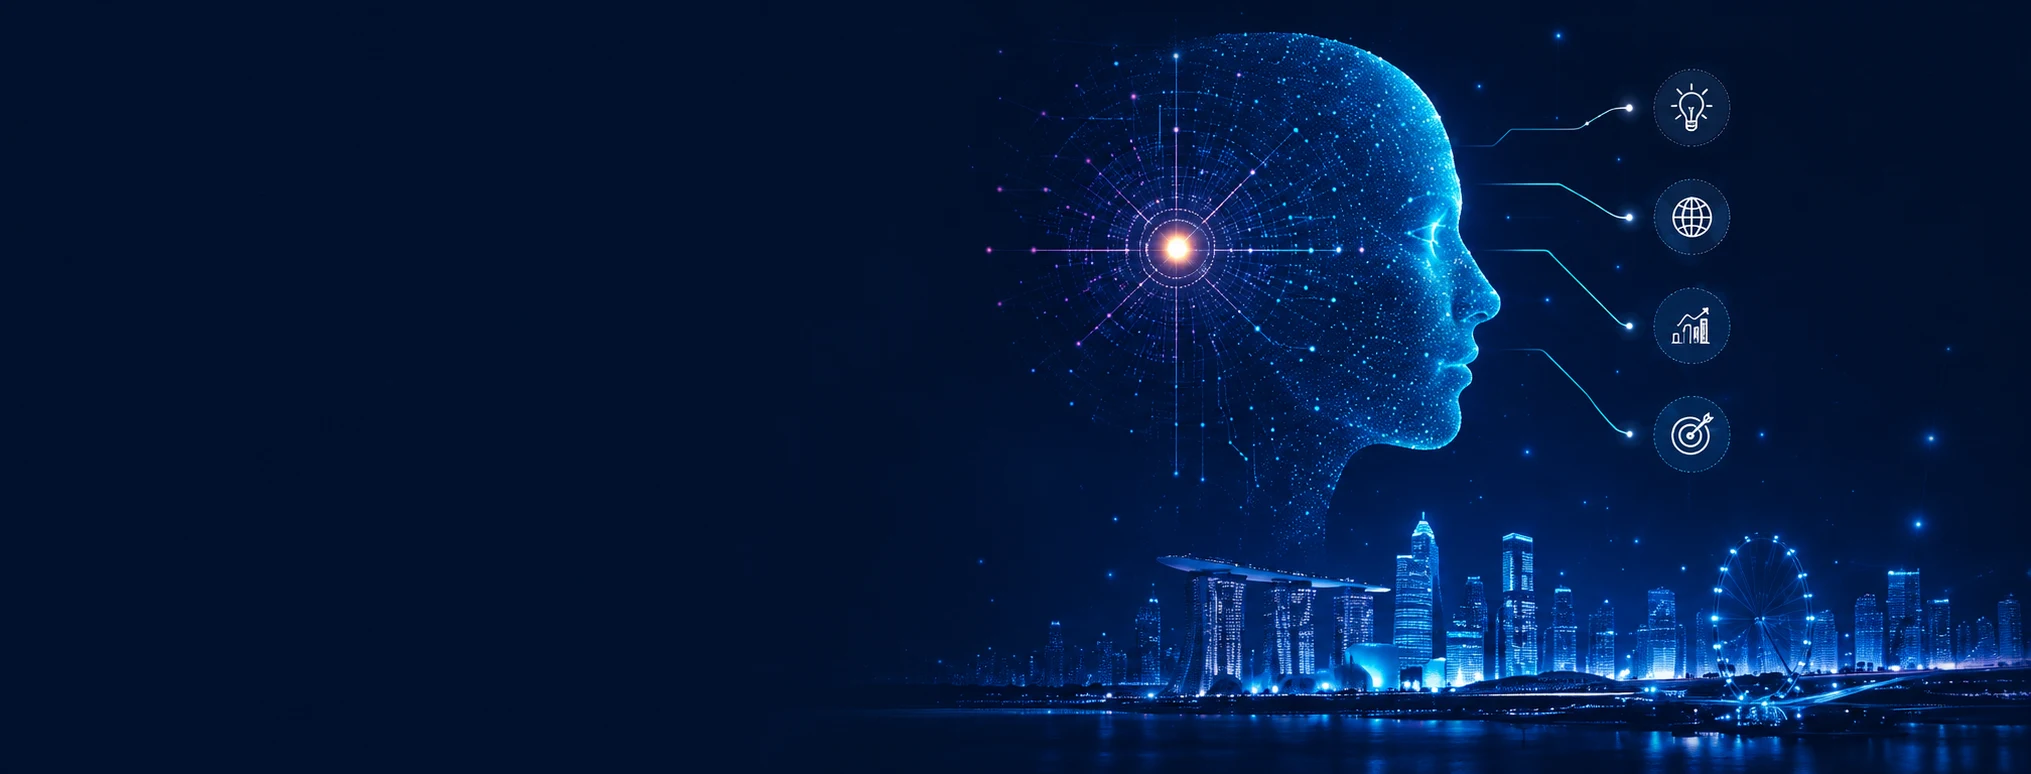
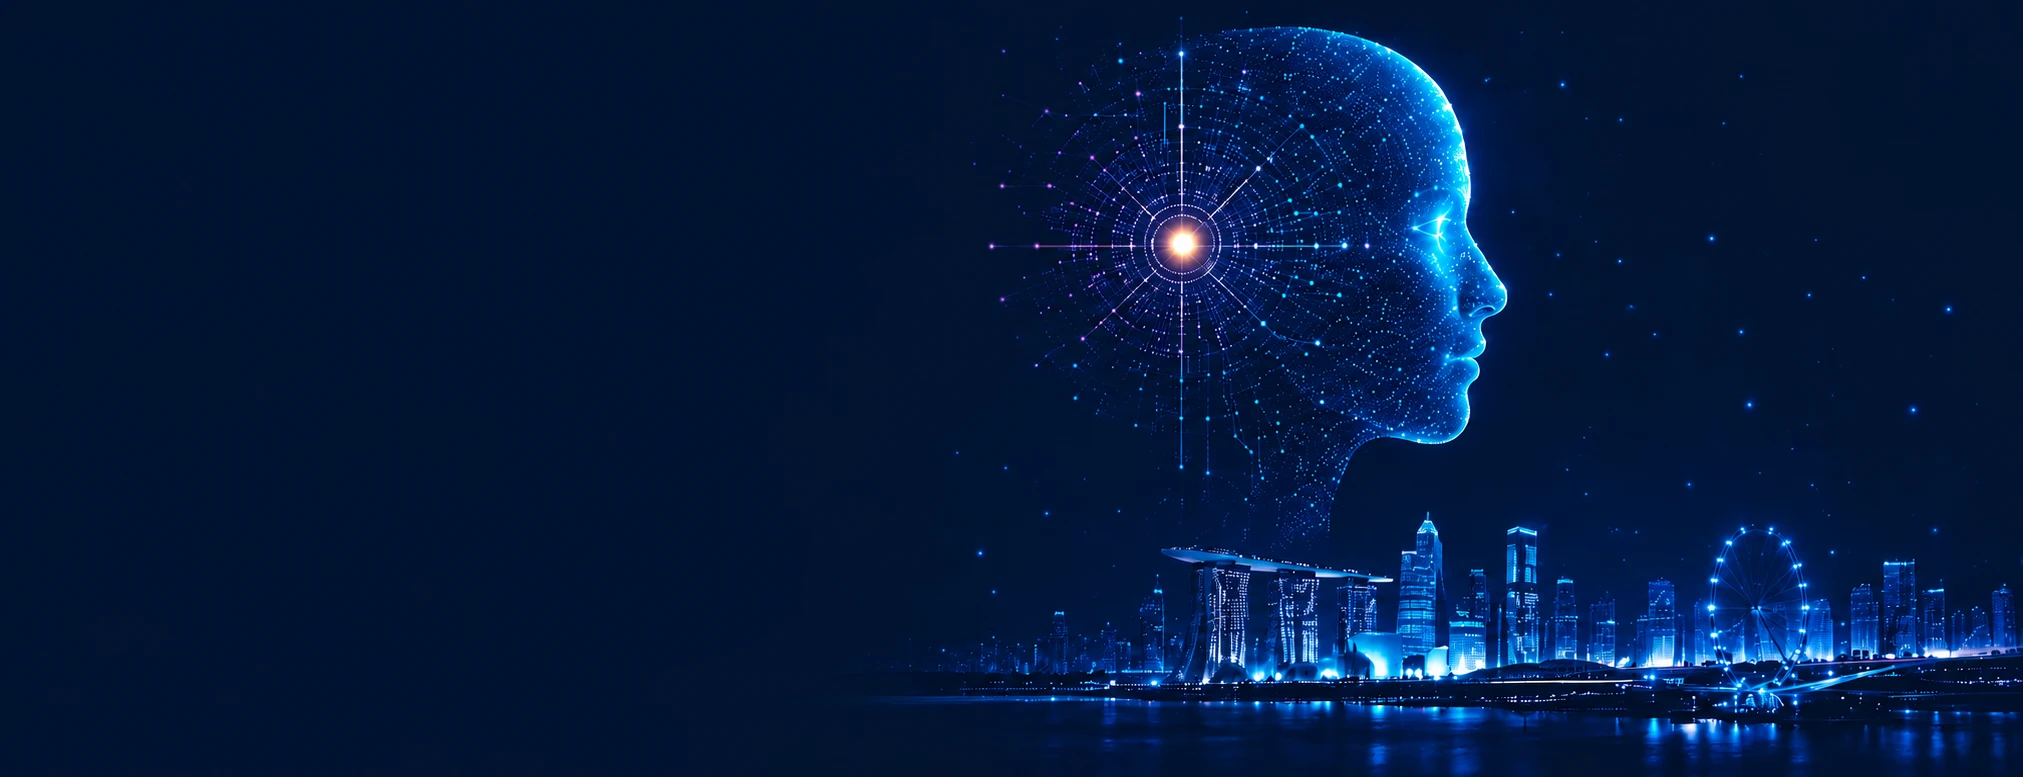
fix: restore commented-out motion div in Home component for improved animation

diff --git a/src/pages/Home.jsx b/src/pages/Home.jsx
@@ -146,7 +146,7 @@ const prevSpeaker = () => {
             </div>
           </motion.div>
 
-          {/* <motion.div initial={{ opacity: 0, x: 25 }} animate={{ opacity: 1, x: 0 }} transition={{ duration: .7 }} className="hidden lg:flex flex-col gap-5 justify-self-end">
+          <motion.div initial={{ opacity: 0, x: 25 }} animate={{ opacity: 1, x: 0 }} transition={{ duration: .7 }} className="hidden lg:flex flex-col gap-5 justify-self-end">
             {[
               [Lightbulb, "INNOVATION"],
               [BrainCircuit, "INTELLIGENCE"],
@@ -160,7 +160,7 @@ const prevSpeaker = () => {
                 <span className="text-[12px] font-bold tracking-wide">{label}</span>
               </div>
             ))}
-          </motion.div> */}
+          </motion.div>
         </div>
       </section>
 